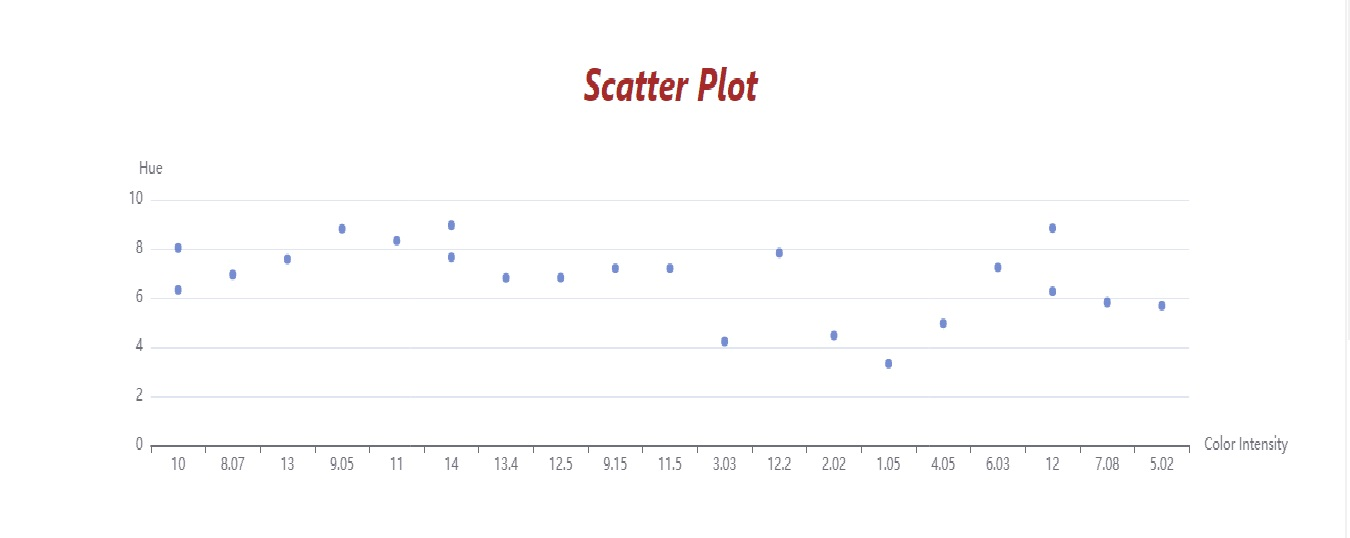
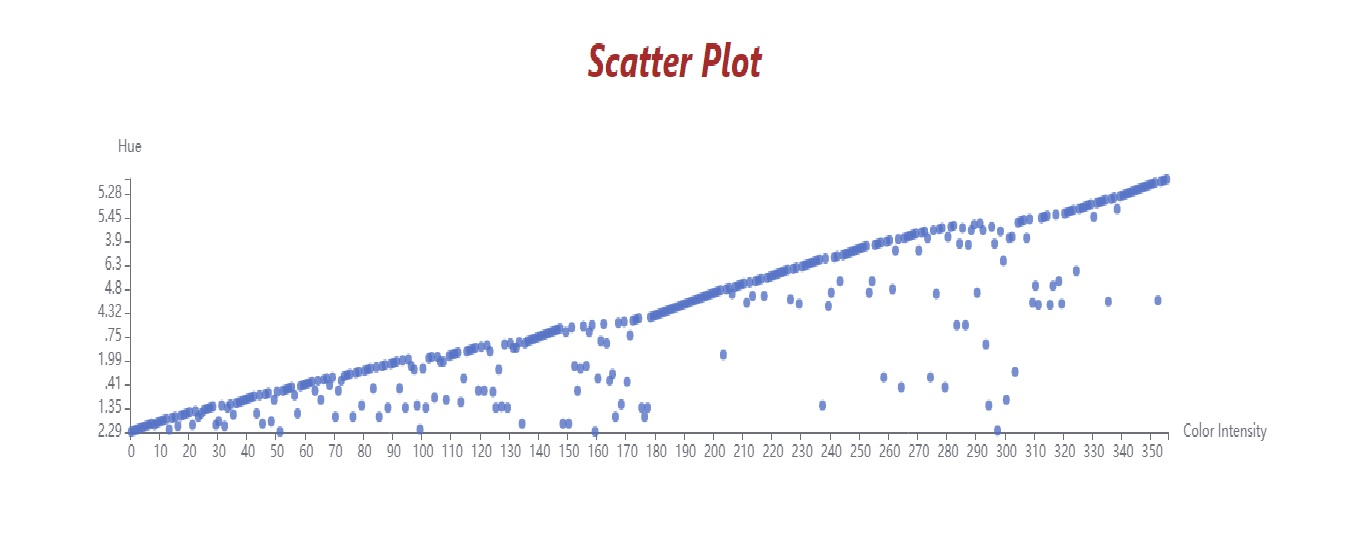
Fixed scatter plot

diff --git a/src/components/ScatterPlot.js b/src/components/ScatterPlot.js
@@ -1,42 +1,28 @@
 import React from 'react';
 import ReactEcharts from "echarts-for-react";
+import Data from '../Wine-Data.json'; // Data-Set
 
 function ScatterPlot() {
+
+    // Extracting Hue value from dataset into new array
+    const hue = Data.map(a => a.Hue);
+    // Extracting Color Intensity value from dataset into new array
+    const colorIntensity = Data.map(({ ColorIntensity }) => ColorIntensity)
+
     const option = {
         xAxis: {
             type: 'category',
             name: 'Color Intensity' // X-Axis Label name
         },
         yAxis: {
-            type: 'value',
+            type: 'category',
             name: 'Hue' // Y-Axis Label name
         },
         series: [
             {
                 symbolSize: 7,
                 data: [
-                    [10.0, 8.04],
-                    [8.07, 6.95],
-                    [13.0, 7.58],
-                    [9.05, 8.81],
-                    [11.0, 8.33],
-                    [14.0, 7.66],
-                    [13.4, 6.81],
-                    [10.0, 6.33],
-                    [14.0, 8.96],
-                    [12.5, 6.82],
-                    [9.15, 7.2],
-                    [11.5, 7.2],
-                    [3.03, 4.23],
-                    [12.2, 7.83],
-                    [2.02, 4.47],
-                    [1.05, 3.33],
-                    [4.05, 4.96],
-                    [6.03, 7.24],
-                    [12.0, 6.26],
-                    [12.0, 8.84],
-                    [7.08, 5.82],
-                    [5.02, 5.68]
+                    ...colorIntensity, ...hue // Used spread operator to provide values to be visualized
                 ],
                 type: 'scatter'
             }
